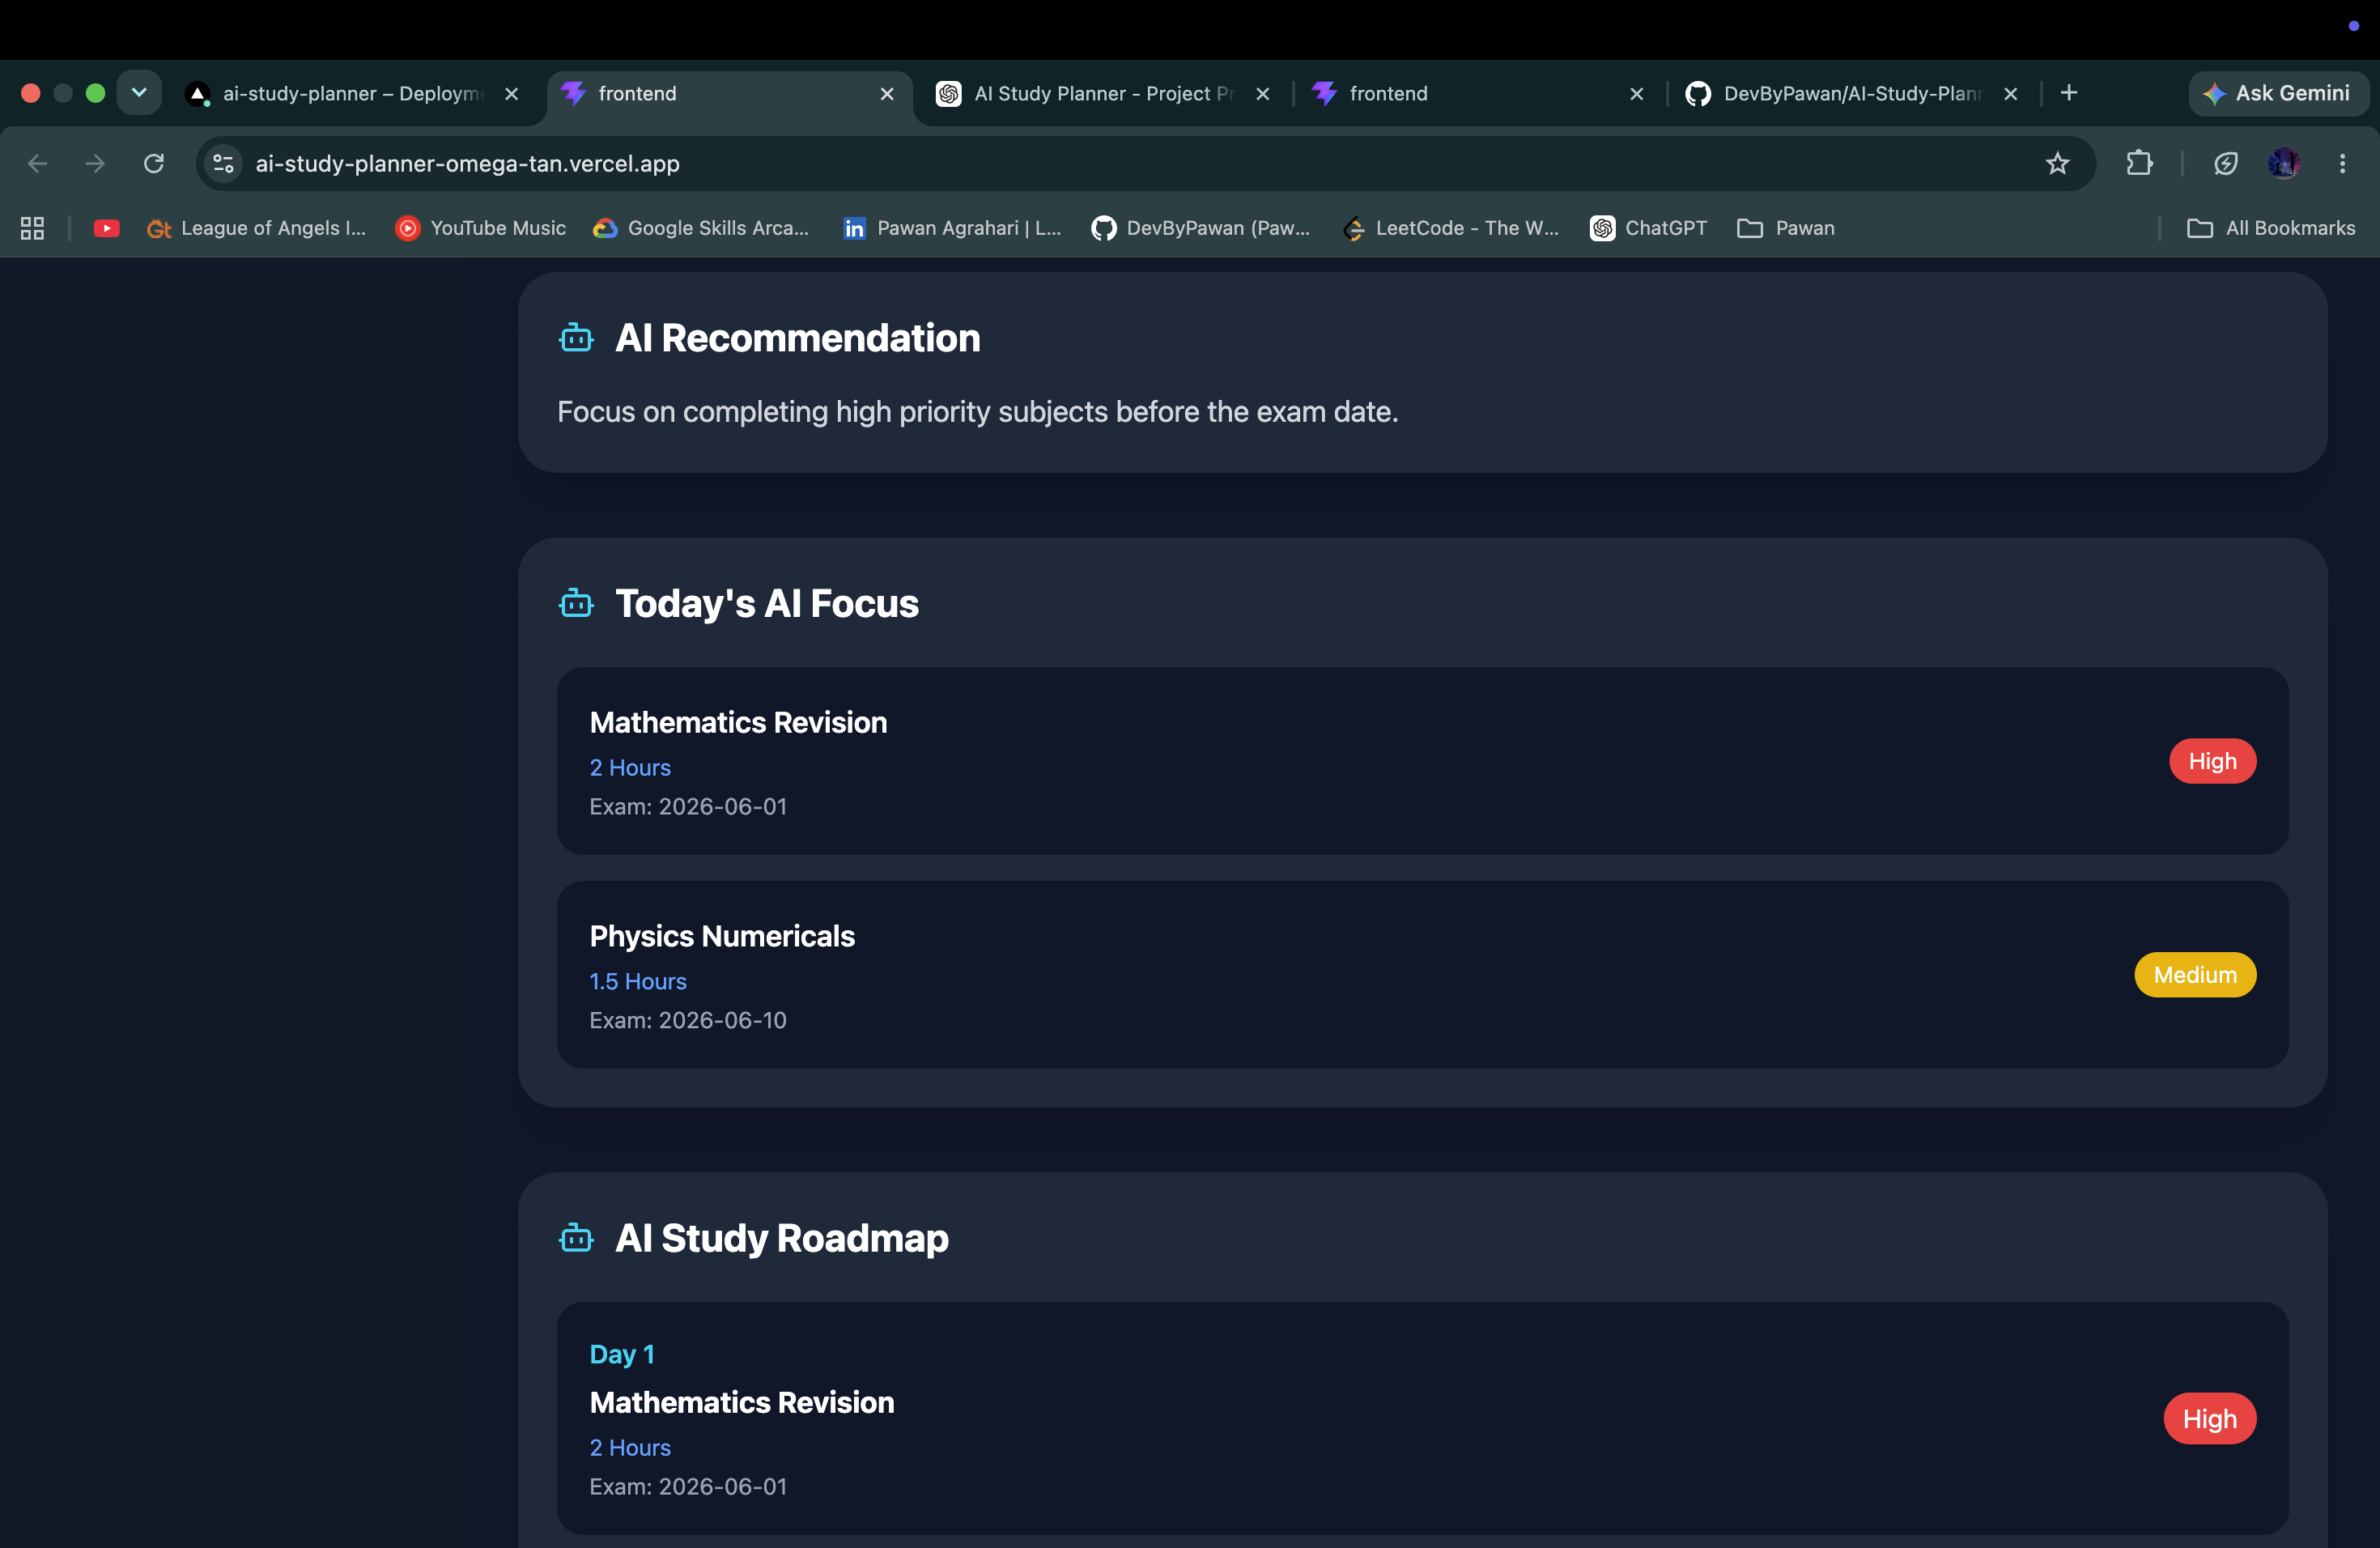
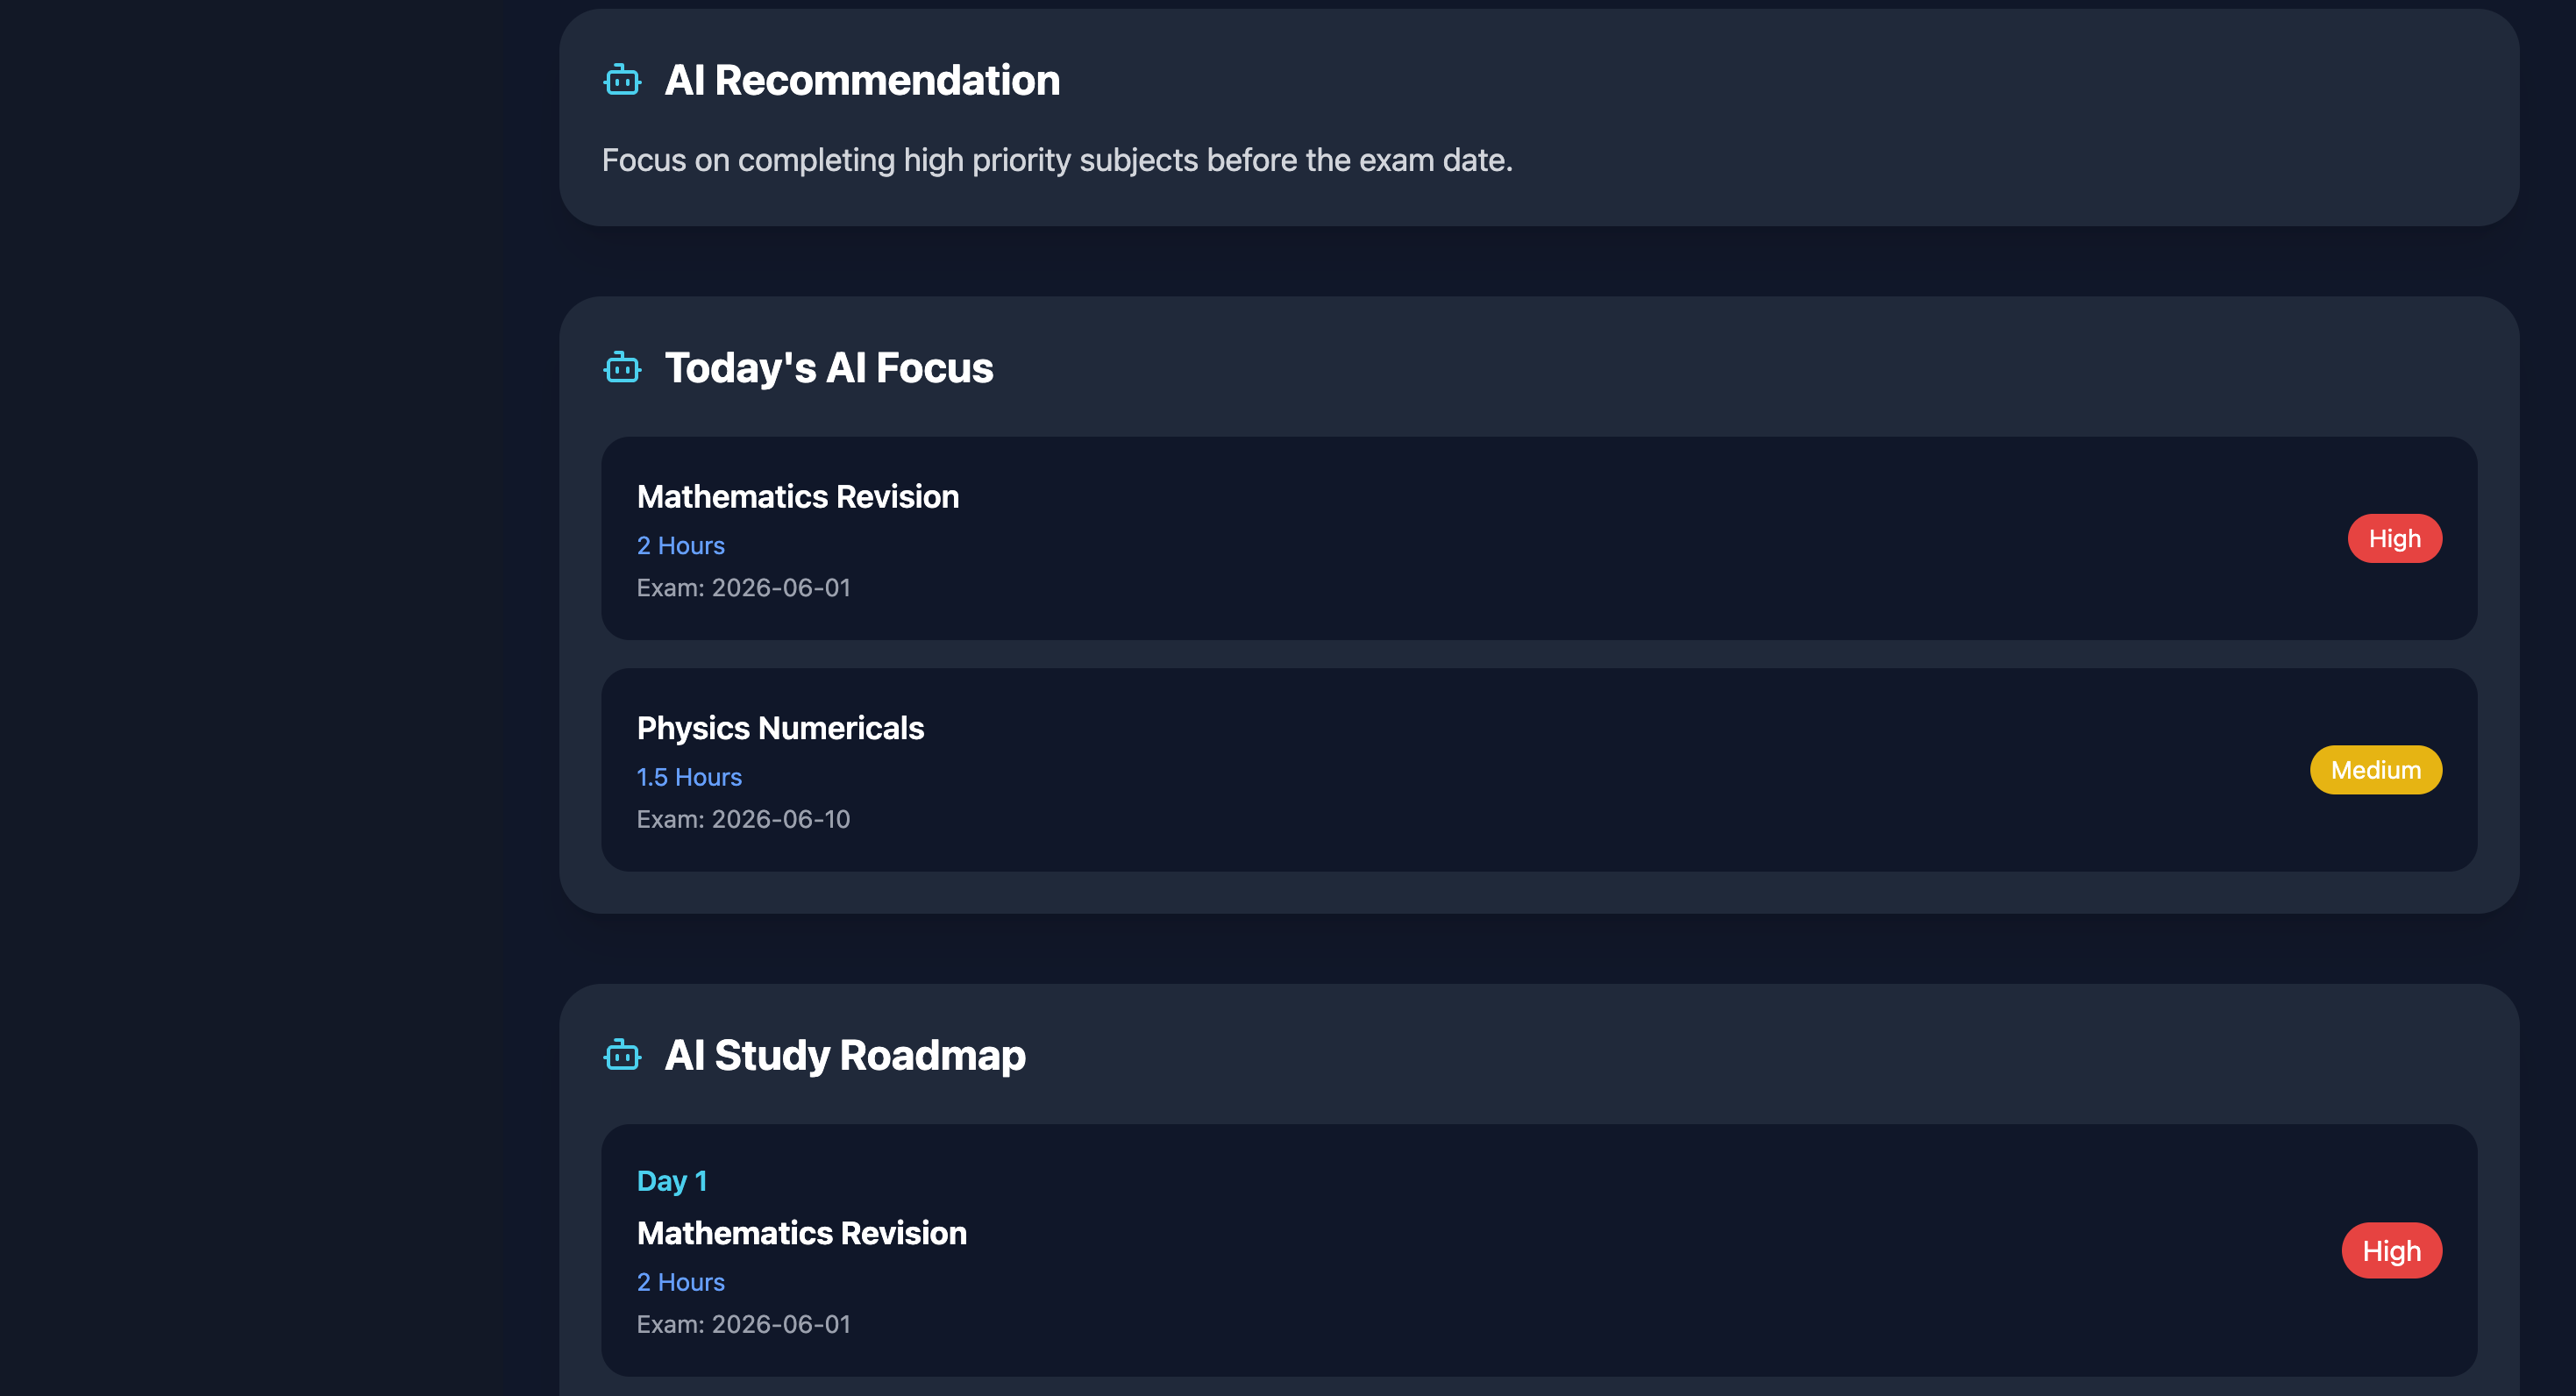
Updated README

diff --git a/README.md b/README.md
@@ -36,19 +36,20 @@ This application helps students manage study tasks, track productivity, organize
 
 ## Dashboard
 
-![Dashboard](screenshots/dashboard.png)
+![Dashboard](./screenshots/dashboard.png)
 
 ---
 
 ## AI Roadmap
 
-![AI Roadmap](ai-roadmap.png)
+![AI Roadmap](./screenshots/ai-roadmap.png)
+
 
 ---
 
-## Study Planner
+## Study Plan
 
-![Study Planner Image](Study-Plan.png)
+![Study Plan](./screenshots/study-plan.png)
 
 ---
 